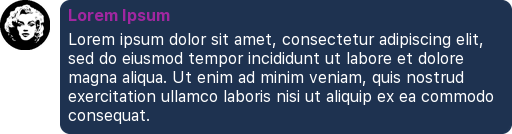
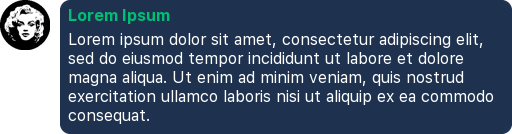
Fix nickname color and recreate qute image

Changed region(s): [[0.125, 0.0597, 0.3438, 0.1791]]

diff --git a/QuoteMaker.py b/QuoteMaker.py
@@ -4,7 +4,7 @@ class QuoteMaker:
     def __init__(self, msg_font_color = None, msg_background_color = None, nickname_font_color = None):
         self.msg_font_color = msg_font_color or (255, 255, 255, 255)
         self.msg_background_color = msg_background_color or (30, 50, 80, 255)
-        self.nickname_font_color = nickname_font_color or (160, 39, 160, 255)
+        self.nickname_font_color = nickname_font_color or (0, 190, 115, 255)
         self.avatar_size = 50
         self.sticker_max_size = 512
         self.msg_font_size = 16
